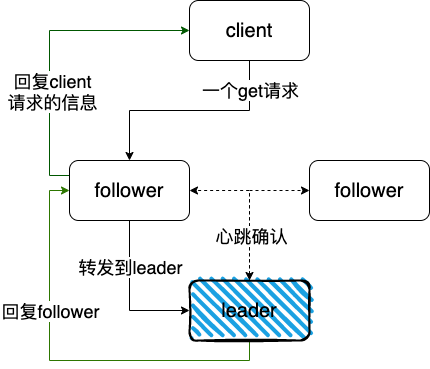
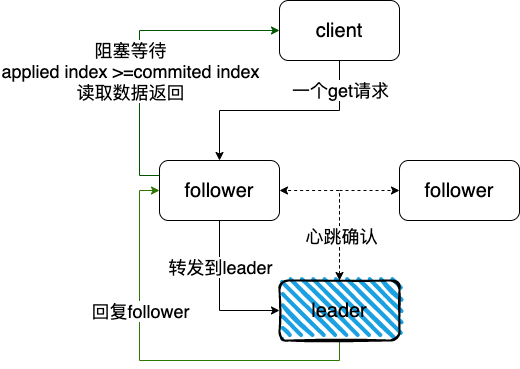
etcd线性一致性读

diff --git a/_posts/2021-08-30-etcd中raft实现线性一致性.md b/_posts/2021-08-30-etcd中raft实现线性一致性.md
@@ -31,6 +31,10 @@ tags:
     - [3、raft中如何处理一个读的请求](#3raft%E4%B8%AD%E5%A6%82%E4%BD%95%E5%A4%84%E7%90%86%E4%B8%80%E4%B8%AA%E8%AF%BB%E7%9A%84%E8%AF%B7%E6%B1%82)
       - [如果follower收到只读的消息](#%E5%A6%82%E6%9E%9Cfollower%E6%94%B6%E5%88%B0%E5%8F%AA%E8%AF%BB%E7%9A%84%E6%B6%88%E6%81%AF)
       - [如果leader收到只读请求](#%E5%A6%82%E6%9E%9Cleader%E6%94%B6%E5%88%B0%E5%8F%AA%E8%AF%BB%E8%AF%B7%E6%B1%82)
+  - [MVCC](#mvcc)
+    - [treeIndex](#treeindex)
+    - [buffer](#buffer)
+    - [boltdb](#boltdb)
   - [总结](#%E6%80%BB%E7%BB%93)
   - [参考](#%E5%8F%82%E8%80%83)
 
@@ -182,7 +186,7 @@ service KV {
 #### 2、服务端响应读取请求
 
 ```go
-// etcd/server/etcdserver/raft.go
+// etcd/server/etcdserver/v3_server.go
 func (s *EtcdServer) Range(ctx context.Context, r *pb.RangeRequest) (*pb.RangeResponse, error) {
 	...
 	// 判断是否需要serializable read  
@@ -201,7 +205,7 @@ func (s *EtcdServer) Range(ctx context.Context, r *pb.RangeRequest) (*pb.RangeRe
 	return resp, err
 }
 
-// etcd/server/etcdserver/raft.go
+// etcd/server/etcdserver/v3_server.go
 func (s *EtcdServer) linearizableReadNotify(ctx context.Context) error {
 	s.readMu.RLock()
 	nc := s.readNotifier
@@ -232,7 +236,7 @@ func (s *EtcdServer) Start() {
 	...
 }
 
-// etcd/server/etcdserver/raft.go
+// etcd/server/etcdserver/v3_server.go
 func (s *EtcdServer) linearizableReadLoop() {
 	for {
 		requestId := s.reqIDGen.Next()
@@ -247,7 +251,8 @@ func (s *EtcdServer) linearizableReadLoop() {
 		}
 		...
 		// 处理不同的消息
-		// 这里会监听readwaitc，等待MsgReadIndex信息的处理结果
+		// 这里会监听readwaitc，等待MsgReadIndex信息的处理结果 
+		// 同时获取当前已提交的日志索引
 		confirmedIndex, err := s.requestCurrentIndex(leaderChangedNotifier, requestId)
 		if isStopped(err) {
 			return
@@ -305,7 +310,9 @@ func (n *node) ReadIndex(ctx context.Context, rctx []byte) error {
 
 1、如果消息来自客户端，直接写入到readStates，start函数会将readStates中最后的一个放到readStateC，通知上游的处理结果；  
 
-2、如果消息来自follower，通过消息MsgReadIndexResp回复follower的响应结果；  
+2、如果消息来自follower，通过消息MsgReadIndexResp回复follower的响应结果，同时follower也是会将readStates中最后的一个放到readStateC，通知上游的处理结果；  
+
+上面的linearizableReadLoop监听readStateC，当收到请求，获取当前leader已经提交的日志索引，然后等待直到状态机已应用索引 (applied index) 大于等于 Leader 的已提交索引时 (committed Index)，然后去通知读请求，数据已赶上 Leader，就可以去状态机中访问数据了，处理数据返回给客户端  
 
 我们知道ReadIndex算法中，leader节点需要，向follower节点发起心跳，确认自己的leader地位，具体的就是通过ReadOnly来实现,下面会一一介绍到  
 
@@ -524,13 +531,43 @@ func (r *raft) responseToReadIndexReq(req pb.Message, readIndex uint64) pb.Messa
 
 如果当前只有一个节点，那么当前的节点也是leader节点，所有的只读请求，将会发送到leader，leader直接对信息进行处理  
 
+如何从状态机中访问数据了，就需要了解下MVCC了  
+
+### MVCC
+
+`Multiversion concurrency control`简称MVCC。这个模块是为了解决 etcd v2 不支持保存 key 的历史版本、不支持多 key 事务等问题而产生的。  
+
+它核心由内存树形索引模块 (treeIndex) 和嵌入式的 KV 持久化存储库 boltdb 组成。  
+
+那么 etcd 如何基于 boltdb 保存一个 key 的多个历史版本呢?  
+
+每次修改操作，生成一个新的版本号 (revision)，以版本号为 key， value 为用户 key-value 等信息组成的结构体。boltdb 的 key 是全局递增的版本号 (revision)，value 是用户 key、value 等字段组合成的结构体，然后通过 treeIndex 模块来保存用户 key 和版本号的映射关系。  
+
+treeIndex 与 boltdb 关系如下面的读事务流程图所示，从 treeIndex 中获取 key hello 的版本号，再以版本号作为 boltdb 的 key，从 boltdb 中获取其 value 信息。  
+
+<img src="/img/etcd-mvcc.png" alt="etcd" align=center/>
+
+#### treeIndex
+
+treeIndex 模块是基于 Google 开源的内存版 btree 库实现的
+
+treeIndex 模块只会保存用户的 key 和相关版本号信息，用户 key 的 value 数据存储在 boltdb 里面，相比 ZooKeeper 和 etcd v2 全内存存储，etcd v3 对内存要求更低。  
+
+#### buffer  
+
+在获取到版本号信息后，就可从 boltdb 模块中获取用户的 key-value 数据了。不过有一点你要注意，并不是所有请求都一定要从 boltdb 获取数据。etcd 出于数据一致性、性能等考虑，在访问 boltdb 前，首先会从一个内存读事务 buffer 中，二分查找你要访问 key 是否在 buffer 里面，若命中则直接返回。  
+
+#### boltdb
+
+boltdb 使用 B+ tree 来组织用户的 key-value 数据，获取 bucket key 对象后，通过 boltdb 的游标 Cursor 可快速在 B+ tree 找到 key hello 对应的 value 数据，返回给 client。  
+
 ### 总结
 
 etcd中对于写的请求，因为所有的写请求都是通过leader的，leader的确认机制将会保证消息复制到大多数节点中；  
 
 对于只读的请求，同样也是需要全部转发到leader节点中，通过ReadIndex算法，来实现线性一致性读；  
 
-Leader执行ReadIndex大致的流程如下：
+raft执行ReadIndex大致的流程如下：
 
 - 1、记录当前的commit index，称为ReadIndex；  
 
@@ -539,6 +576,8 @@ Leader执行ReadIndex大致的流程如下：
 - 3、等待状态机的apply index大于或等于commited index时才读取数据；    
 
 - 4、执行读请求，将结果返回给Client。 
+
+关于状态机数据的读取，首先从treeIndex获取版本号，然后在buffer是否有对应的值，没有就去boltdb查询对应的值  
 
 ### 参考
 
